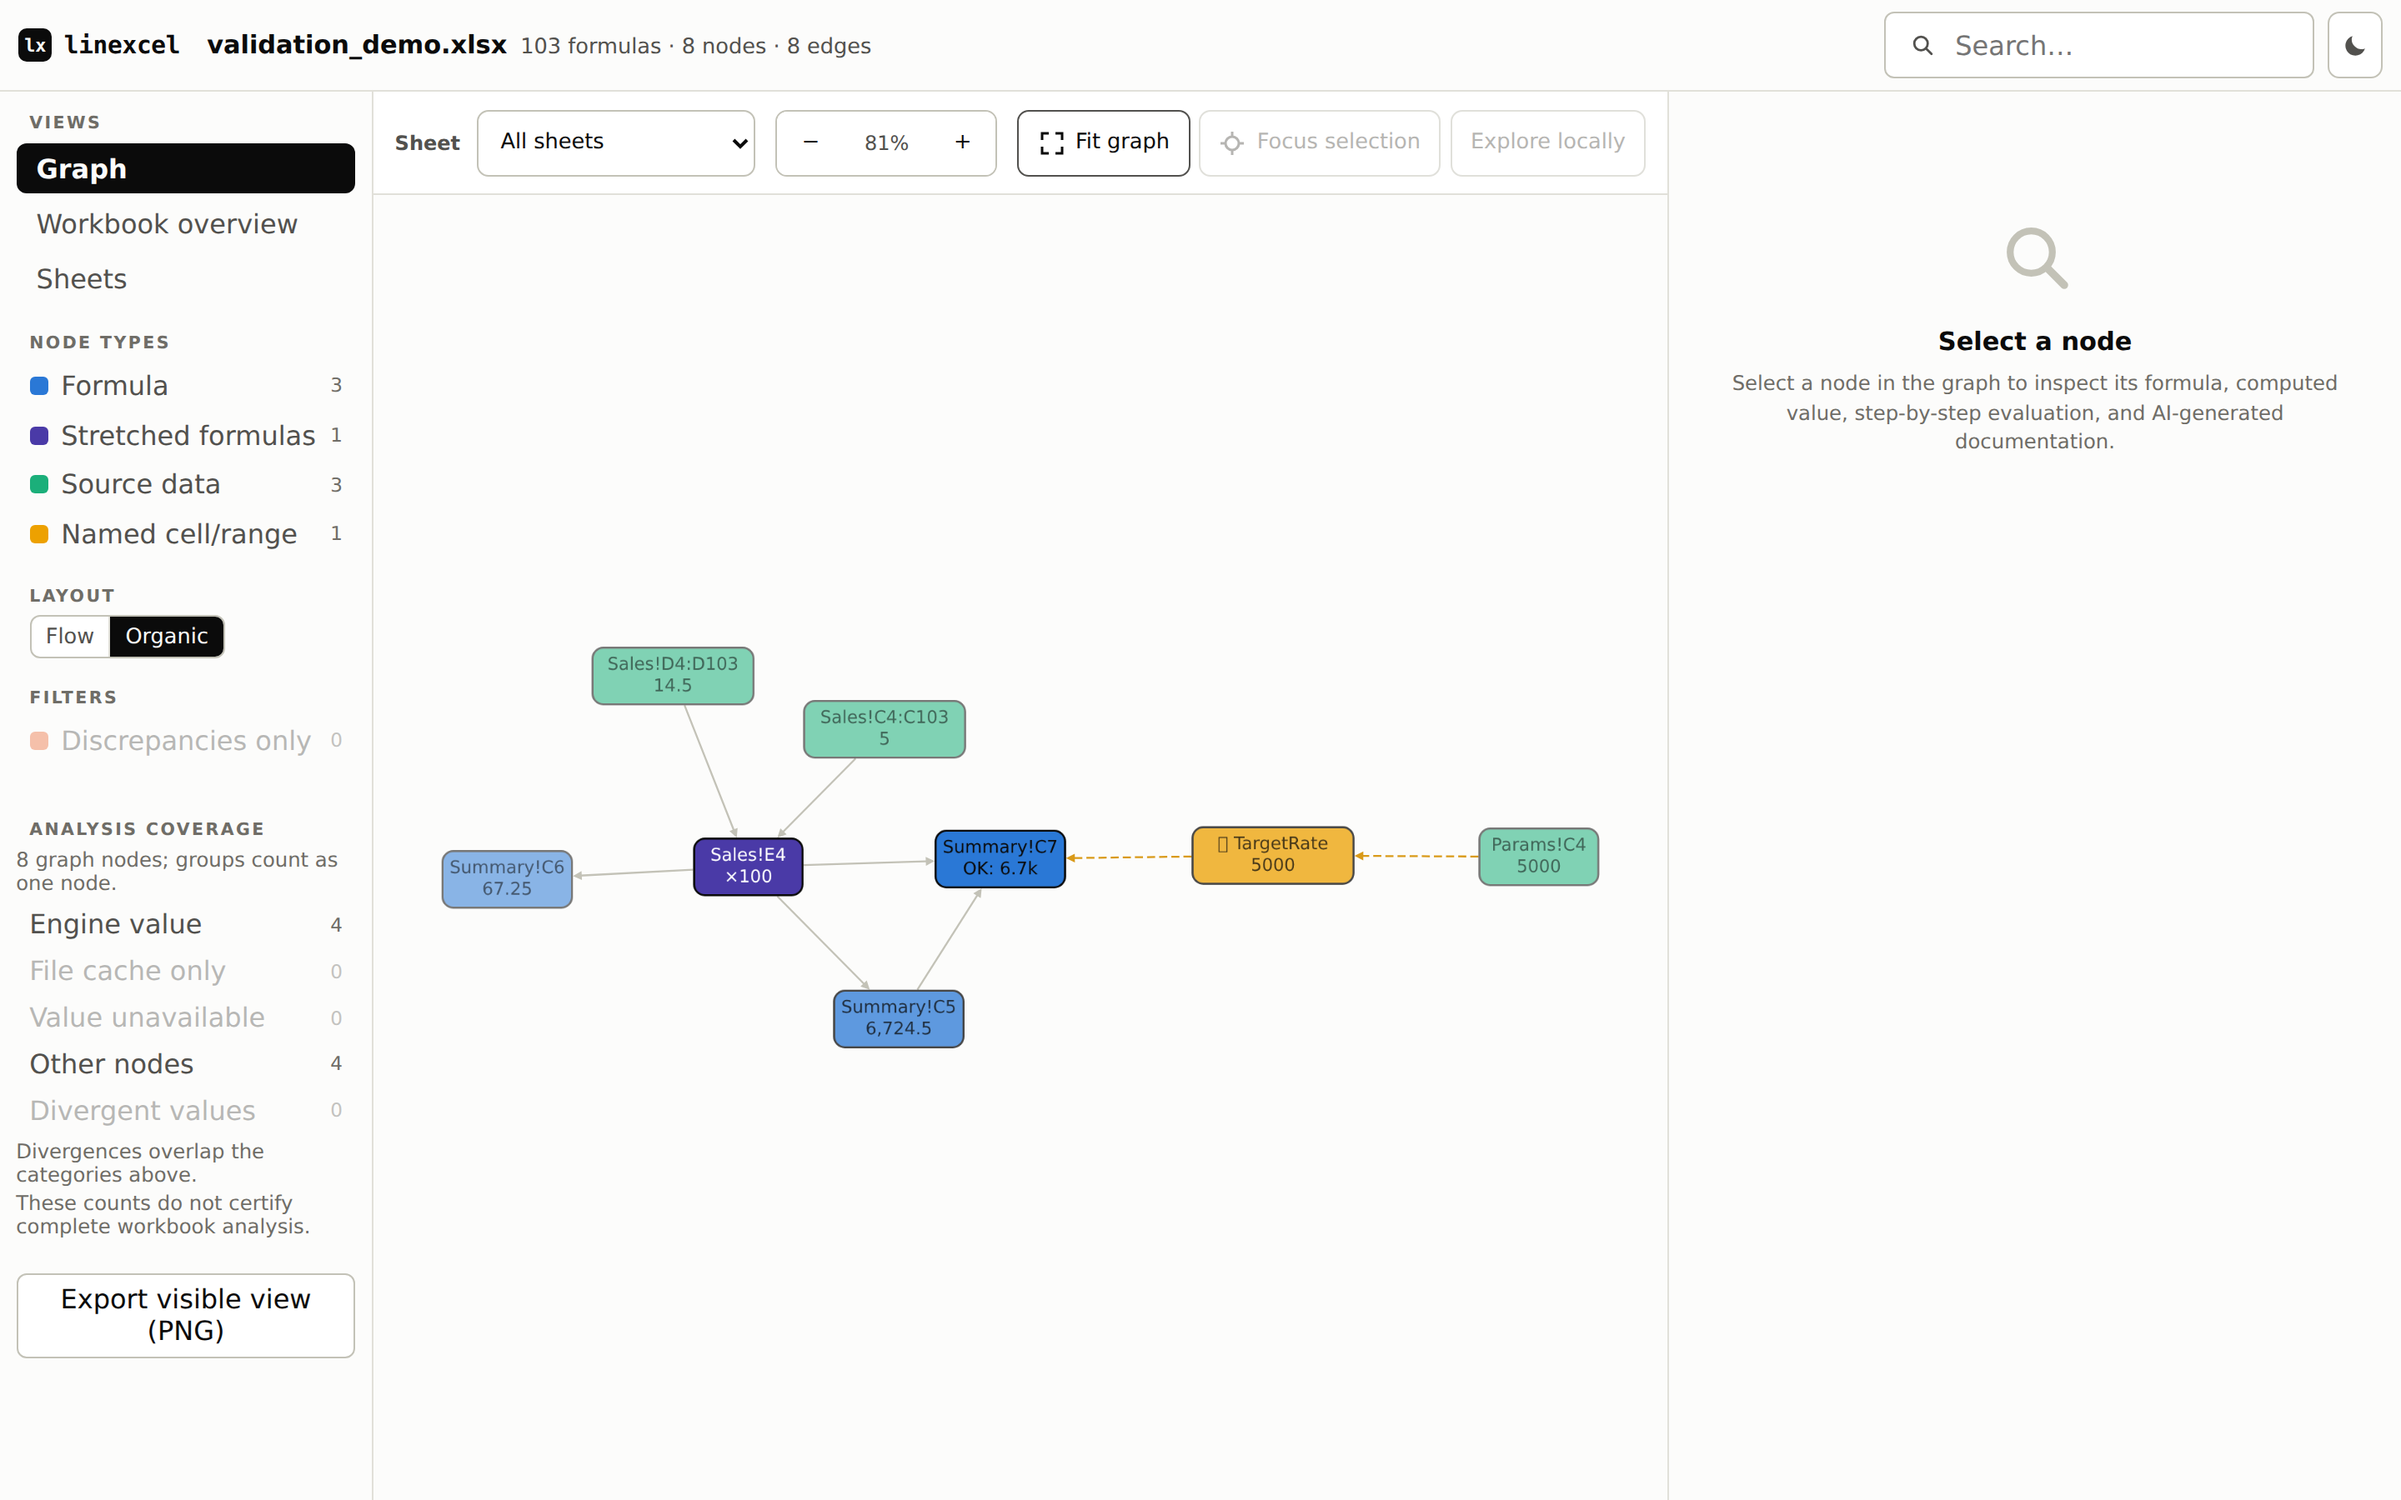
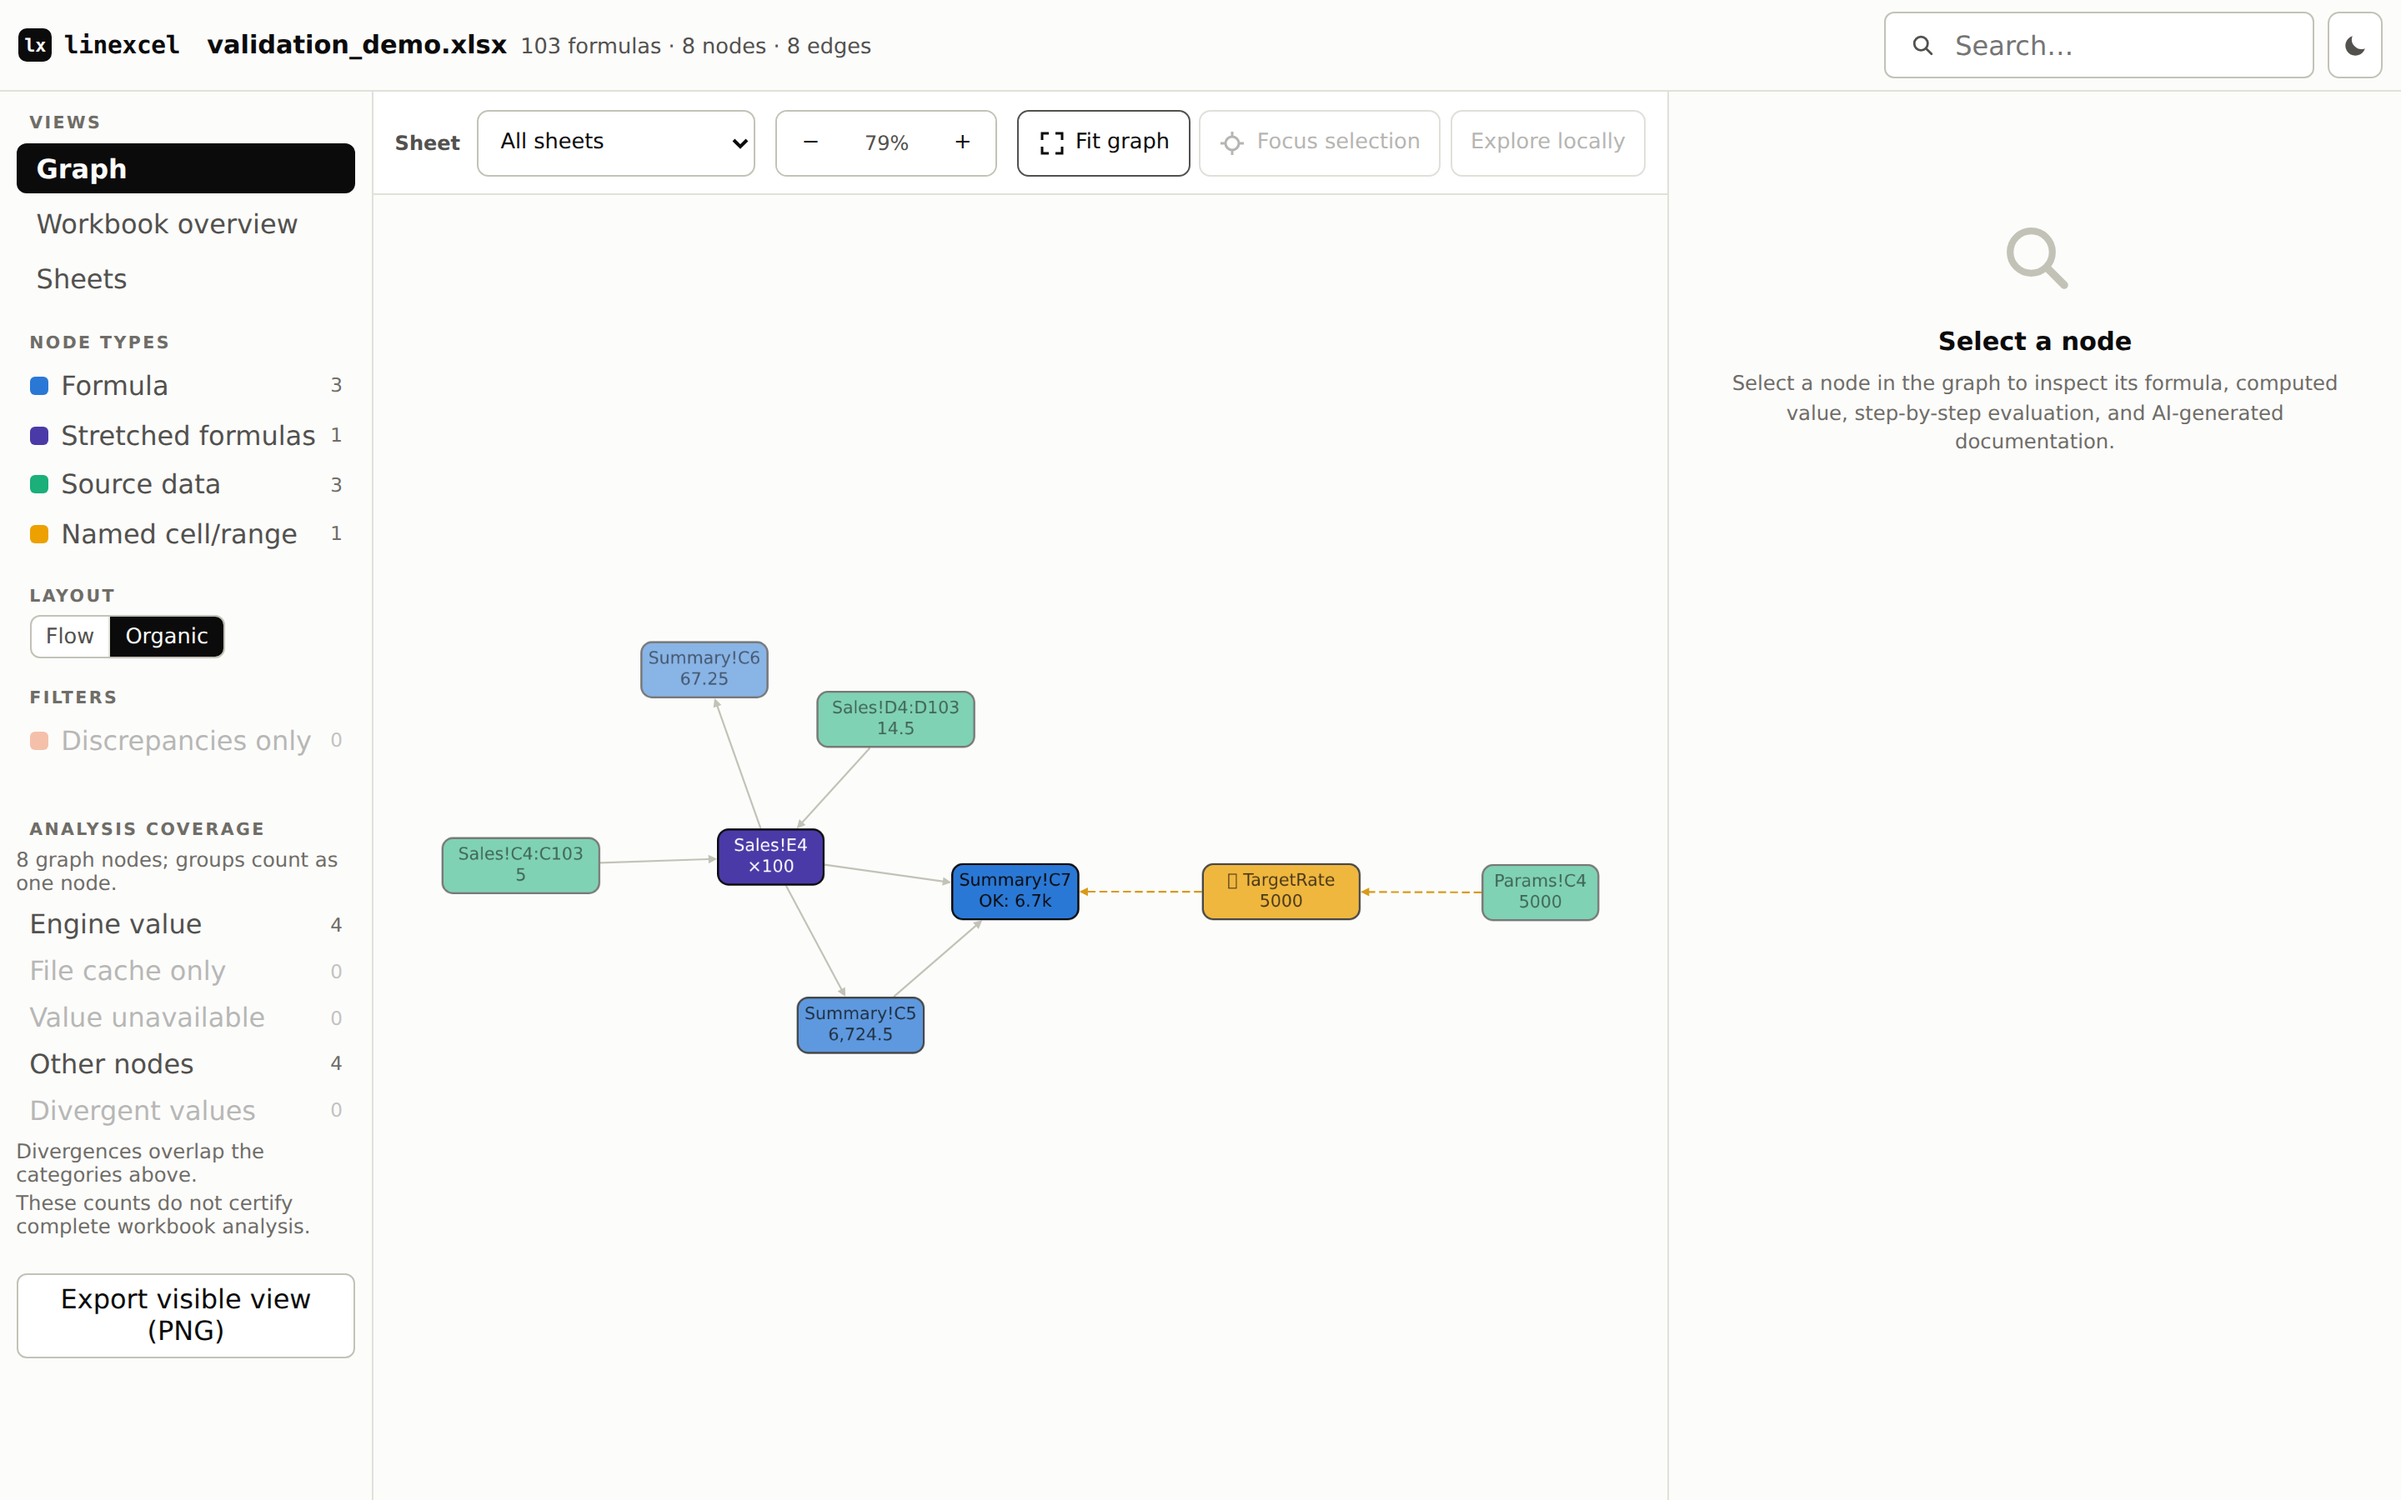
fix: resolve graph visibility before every filter layout

diff --git a/src/linexcel/assets/viewer.html b/src/linexcel/assets/viewer.html
@@ -1776,6 +1776,7 @@
           else node.removeClass('diff-off');
         });
       });
+      resolveDisplayStyles(cy);
       clearSel(cy);  // the selection may have just left the canvas
       var visible = cy.elements(':visible');
       if (!visible.nodes().length) return;
@@ -2398,6 +2399,7 @@
           });
         });
         // The selection may have just left the canvas with its kind.
+        resolveDisplayStyles(cy);
         clearSel(cy);
         var visible = cy.elements(':visible');
         if (!visible.nodes().length) return;
@@ -2419,6 +2421,11 @@
       return JSON.stringify(v);
     }
     return String(v);
+  }
+
+  function resolveDisplayStyles(cy) {
+    // Resolve lazy display styles before visibility reads reuse the old cache.
+    cy.nodes().forEach(function (node) { node.style('display'); });
   }
 
   // Narrow the graph to one sheet. Nodes of another sheet are kept — dimmed —
@@ -2449,6 +2456,7 @@
       // Cytoscape hides edges automatically when either endpoint is hidden.
       cy.nodes().not(keep).addClass('sheet-off');
     });
+    resolveDisplayStyles(cy);
     clearSel(cy);  // the previously selected node may now be hidden
     var visible = cy.elements(':visible');
     if (!visible.nodes().length) return;

diff --git a/tests/test_viewer_browser.py b/tests/test_viewer_browser.py
@@ -269,6 +269,160 @@ def test_portrait_flow_stays_readable_and_respects_explicit_layout(report):
     assert not errors
 
 
+@pytest.fixture(scope="module")
+def sales_source_graph():
+    import runpy
+
+    from linexcel import analyze
+
+    builders = runpy.run_path(
+        str(Path(__file__).resolve().parents[1] / "validation_workbooks.py")
+    )
+    return analyze(builders["build_sales_workbook"](), filename="sales.xlsx").graph
+
+
+def assert_separate_cards(page, expected):
+    page.evaluate("() => { window.cardBounds = null; window.cardFrames = 0; }")
+    page.wait_for_function(
+        """ids => {
+            if (cy.scratch('linexcelSheetFrame') || cy.animated()) return false;
+            const nodes = cy.nodes(':visible');
+            if (JSON.stringify(nodes.map(n=>n.id()).sort())
+                    !== JSON.stringify(ids.slice().sort())) return false;
+            const state = JSON.stringify(nodes.map(n=>n.renderedBoundingBox()));
+            window.cardFrames = window.cardBounds === state ? window.cardFrames + 1 : 0;
+            window.cardBounds = state;
+            return window.cardFrames >= 3;
+        }""",
+        arg=sorted(expected),
+    )
+    # Exact outer card rectangles exclude Cytoscape's extra bounding-box margin.
+    bounds = page.evaluate("""() => cy.nodes(':visible').map(n=>{
+        const p=n.renderedPosition();
+        const w=n.renderedOuterWidth(), h=n.renderedOuterHeight();
+        return {id:n.id(), box:{x1:p.x-w/2, x2:p.x+w/2, y1:p.y-h/2, y2:p.y+h/2}};
+    })""")
+    overlaps = []
+    for index, first in enumerate(bounds):
+        for second in bounds[index + 1 :]:
+            a, b = first["box"], second["box"]
+            overlap_width = min(a["x2"], b["x2"]) - max(a["x1"], b["x1"])
+            overlap_height = min(a["y2"], b["y2"]) - max(a["y1"], b["y1"])
+            if overlap_width > 1 and overlap_height > 1:
+                overlaps.append((first["id"], second["id"], a, b))
+    assert not overlaps, overlaps
+
+
+@pytest.mark.parametrize("width,height", [(1440, 900), (390, 844)])
+@pytest.mark.parametrize("language", ["fr", "en"])
+def test_sales_sheet_filters_keep_every_card_separate(
+    report, sales_source_graph, width, height, language
+):
+    graph = sales_source_graph
+    page, errors = report(graph, width=width, height=height, language=language)
+    for sheet in ["__all__", "Params", "Sales", "Summary"]:
+        expected = {node["id"] for node in graph["nodes"]}
+        if sheet != "__all__":
+            local = {node["id"] for node in graph["nodes"] if node["sheet"] == sheet}
+            expected = local | {
+                edge[end]
+                for edge in graph["edges"]
+                if edge["source"] in local or edge["target"] in local
+                for end in ["source", "target"]
+            }
+        page.select_option("#lin-sheet-filter", sheet)
+        for fitted in [False, True]:
+            if fitted:
+                page.click("#lin-fit")
+            assert_separate_cards(page, expected)
+        capture(page, f"sales-filter-{language}-{width}-{sheet}")
+    assert not errors
+
+
+@pytest.fixture(scope="module", params=["sales", "stress"])
+def cached_filter_source_graph(request):
+    import io
+    import re
+    import runpy
+    import zipfile
+
+    from linexcel import analyze
+
+    builders = runpy.run_path(
+        str(Path(__file__).resolve().parents[1] / "validation_workbooks.py")
+    )
+    data = builders[f"build_{request.param}_workbook"]()
+    if request.param == "stress":
+        graph = analyze(data, filename="stress.xlsx").graph
+        # Raw Stress has no comparable formula cache. Exercise this public
+        # comparison marker as a UI fixture, without claiming a native result.
+        group = next(node for node in graph["nodes"] if node["kind"] == "group")
+        group["groupCachedAgreement"] = "differ"
+        return graph
+    patched = io.BytesIO()
+    cache_pattern = rb'(<c\b[^>]*\br="C5"[^>]*>.*?</f>)<v(?:\s*/>|></v>)'
+    # A real wrong saved result enables Sales' discrepancy filter.
+    with (
+        zipfile.ZipFile(io.BytesIO(data)) as source,
+        zipfile.ZipFile(patched, "w") as out,
+    ):
+        for part in source.infolist():
+            payload = source.read(part.filename)
+            if part.filename == "xl/worksheets/sheet2.xml":
+                payload, count = re.subn(
+                    cache_pattern,
+                    rb"\1<v>987654321</v>",
+                    payload,
+                    count=1,
+                )
+                assert count == 1
+            out.writestr(part, payload)
+    return analyze(patched.getvalue(), filename=f"{request.param}.xlsx").graph
+
+
+@pytest.mark.parametrize("width,height", [(1440, 900), (390, 844)])
+def test_kind_and_discrepancy_filters_relayout_the_current_cards(
+    report, cached_filter_source_graph, width, height
+):
+    graph = cached_filter_source_graph
+    page, errors = report(graph, width=width, height=height)
+    # Fix the user's Flow choice so incidental organic packing is independent.
+    if width <= 900:
+        page.click("#lin-options-toggle")
+    page.click("#lin-lay-dagre")
+    if width <= 900:
+        page.click("#lin-options-close")
+    all_ids = {node["id"] for node in graph["nodes"]}
+    for kind, label in [("input", "Source data"), ("group", "Stretched formulas")]:
+        for enabled in [False, True]:
+            if width <= 900:
+                page.click("#lin-options-toggle")
+            page.locator("#lin-rail-kinds button").filter(has_text=label).click()
+            if width <= 900:
+                page.click("#lin-options-close")
+            expected = (
+                all_ids
+                if enabled
+                else {node["id"] for node in graph["nodes"] if node["kind"] != kind}
+            )
+            assert_separate_cards(page, expected)
+    different_ids = {
+        node["id"]
+        for node in graph["nodes"]
+        if node.get("cachedAgreement") == "differ"
+        or node.get("groupCachedAgreement") == "differ"
+    }
+    assert different_ids and different_ids != all_ids
+    for enabled in [True, False]:
+        if width <= 900:
+            page.click("#lin-options-toggle")
+        page.click("#lin-diffs-only")
+        if width <= 900:
+            page.click("#lin-options-close")
+        assert_separate_cards(page, different_ids if enabled else all_ids)
+    assert not errors
+
+
 def test_readme_capture_selects_result_before_photographing(report):
     import runpy
 

diff --git a/CHANGELOG.md b/CHANGELOG.md
@@ -42,6 +42,8 @@ and this project adheres to [Semantic Versioning](https://semver.org/spec/v2.0.0
   and mobile layouts whose canvas resizes when the node reader closes. Keep
   labels readable in small filtered views of a larger workbook, and discard
   delayed frames after history or camera changes so Back restores its viewport.
+- Lay out the current visible nodes after applying graph filters, preventing
+  overlapping cards when changing sheets, node types or calculation differences.
 - Describe input and named-reference values read through the engine as readings
   rather than recalculations in the exported viewer.
 - Scope calculation guidance to Nodes and Graph, support arrow/Home/End
